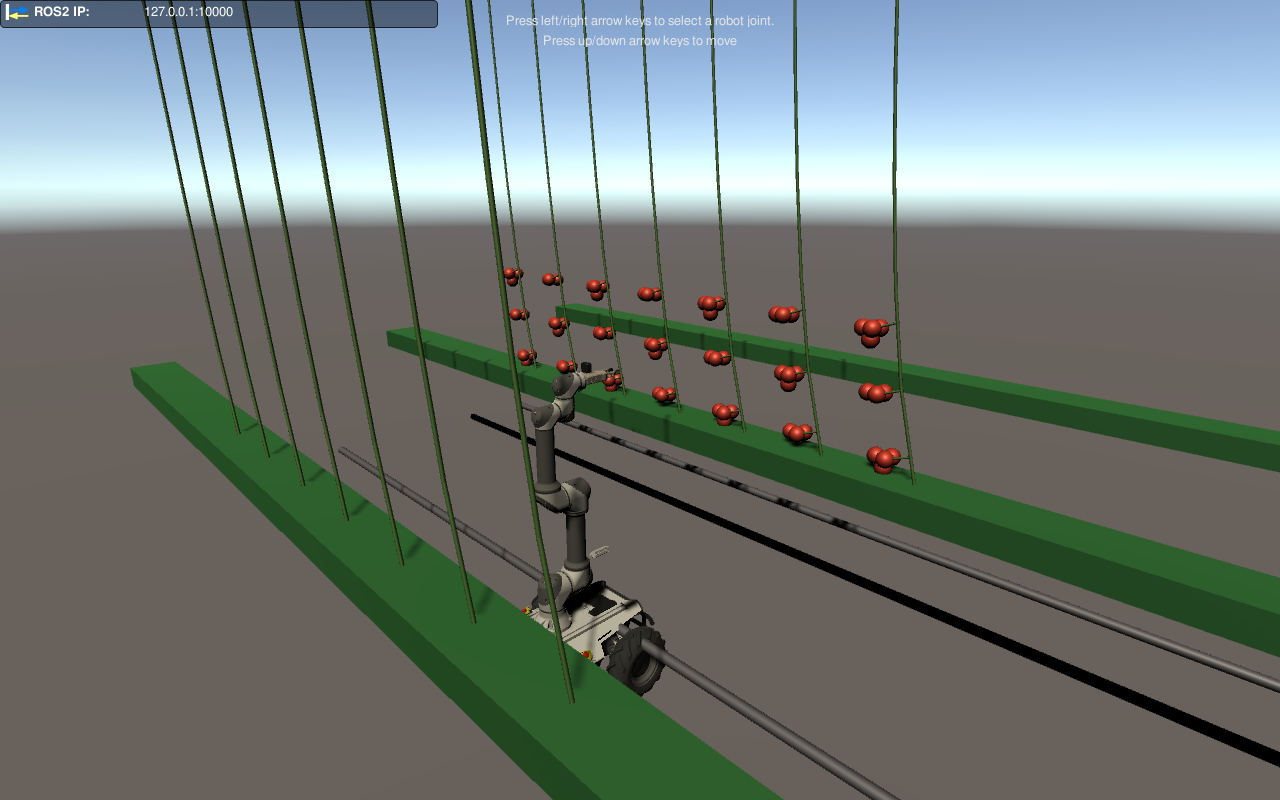
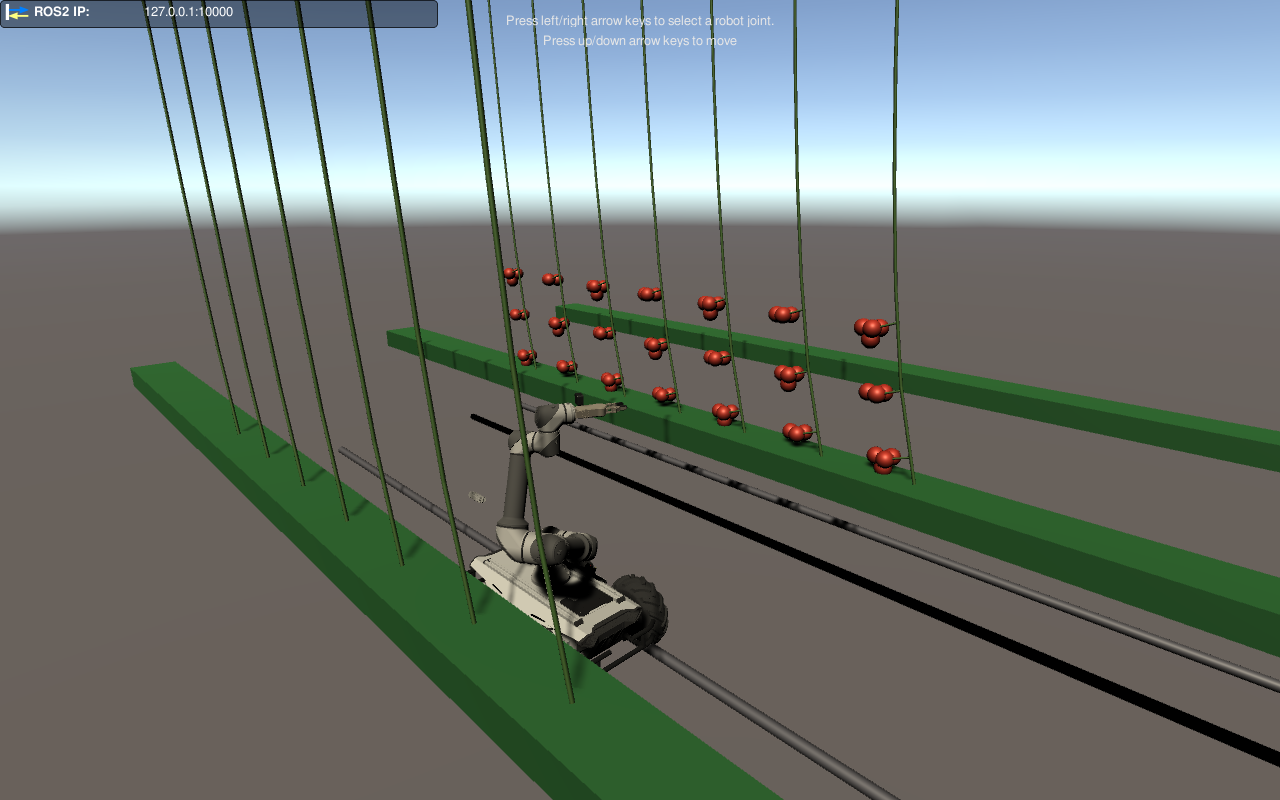
fix(7주차): 로봇 월드 배치(base_placement) 누락 — Unity·USD 둘 다 90° 돌아가 있었다
사용자 지적: "아직 로봇이 z축 기준 시계방향 90도 회전되야 해". 맞는 지적이었다.

■ 결함
  mounts.yaml 의 base_placement = {x:0, y:0, z:0, yaw_deg:-90} 을 ROS 는
  world→base_link 정적 TF 로, Gazebo 는 스폰 자세(-Y)로 적용하는데
  **생성기 3종(Gazebo 월드·USD·Unity)이 모두 이 값을 쓰지 않았다.**
  ⇒ Unity·USD 의 로봇이 온실 대비 90° 돌아가고 0.235m 낮게(지면 오프셋 누락) 서 있었다.
  ground = base_footprint 조인트 z 의 부호 반전 = 0.23479 (CLAUDE.md 기록값과 일치).

■ 수정
  · gen_unity_assets — Resources/base_placement.json 산출 + RdaBatch.PlaceRobot 신설
    실측: ROS(x=0, y=0, z=0.23479, yaw=-90°) → Unity pos (0, 0.23, 0) rot (0, 90, 0)
  · gen_usd_scene — base_placement() 신설, 합성 스테이지에서 로봇 prim 에 translate+rotateZ

🔴 왜 검증이 못 잡았나 — 지난번과 **같은 유형이 반복됐다.**
  프레임 검사(tcp = URDF FK)는 **로봇 내부 기준**이라 이 결함을 원리적으로 못 잡는다.
  로봇만 보면 맞고, 온실과의 **상대 배치**가 틀린 것이다.
  ⇒ 두 검사 모두 기준을 '월드 배치를 반영한 FK' 로 바꿨다:
     · test_unity_export  — _base_placement_tf() 신설, 프레임 비교에 적용
     · test_usd_export    — 합성 스테이지 tcp 비교에 적용
  검증: Unity 20/20 · USD 23/23 (둘 다 수정 전에는 해당 항목이 실패했다 — 확인함)

■ 교훈(보고서 후보) — 두 번 연속 같은 구조였다
  "부분이 맞다"를 "전체가 맞다"로 읽으면 안 된다.
  · 지난번: greenhouse.json 은 맞고 그걸 세우는 C# 이 틀렸다(원기둥 90°)
  · 이번:  로봇 내부 FK 는 맞고 로봇의 월드 배치가 틀렸다(로봇 90°)
  둘 다 자동 검증을 통과했고, 둘 다 **사람이 화면을 보고** 발견했다.

Changed region(s): [[0.3438, 0.4375, 0.5312, 0.875]]

diff --git a/rda_robot_bringup/scripts/gen_unity_assets.py b/rda_robot_bringup/scripts/gen_unity_assets.py
@@ -26,6 +26,7 @@ import os
 import re
 import shutil
 import sys
+import xml.etree.ElementTree as ET
 
 import numpy as np
 import yaml
@@ -42,6 +43,20 @@ def _import_sibling(mod_name, file_name):
 
 
 G = _import_sibling("_gen_usd_scene", "gen_usd_scene.py")   # URDF 조립·파싱·mesh 해석 재사용
+
+def _default_mounts():
+    """mounts.yaml 경로 — compose_urdf 와 같은 규칙(소스 트리 우선, 없으면 share)."""
+    src = os.path.abspath(os.path.join(_here, "..", ".."))
+    p = os.path.join(src, "rda_robot_description", "config", "mounts.yaml")
+    if os.path.exists(p):
+        return p
+    try:
+        from ament_index_python.packages import get_package_share_directory
+        return os.path.join(get_package_share_directory("rda_robot_description"),
+                            "config", "mounts.yaml")
+    except Exception:                                          # noqa: BLE001
+        return None
+
 
 UNITY_VERSION = "2022.3.62f3"
 URDF_IMPORTER = ("https://github.com/Unity-Technologies/URDF-Importer.git"
@@ -366,6 +381,7 @@ public static class RdaBatch
         try {
             EditorSceneManager.NewScene(NewSceneSetup.EmptyScene, NewSceneMode.Single);
             var robot = ImportRobot();
+            PlaceRobot(robot);                       // 월드 배치(base_placement) — 검사도 이 기준이다
             var green = GreenhouseBuilder.Build();
             WriteReport(robot, green);
             Debug.Log("[RDA] 완료");
@@ -468,6 +484,37 @@ public static class RdaBatch
         return null;
     }
 
+    // ───────────────────────────── 로봇 월드 배치(2026-08-16 신설)
+
+    /// 🔴 로봇을 **월드에** 놓는다 — 종전에는 URDF 원점에 그냥 뒀다.
+    ///    ROS 쪽은 `world→base_link` 정적 TF 로 (x, y, ground+z, yaw) 를 걸고 Gazebo 는 같은 값을
+    ///    스폰 자세(`-Y`)로 준다. 이걸 빠뜨려 Unity 로봇이 온실 대비 **90° 돌아가고 0.235m 낮게**
+    ///    서 있었다(2026-08-16 사용자 지적: "z축 기준 시계방향 90도 회전돼야 해").
+    ///    ⚠ 프레임 검사(tcp = URDF FK)는 **로봇 내부 기준**이라 이 결함을 못 잡는다 —
+    ///       로봇만 보면 맞고, 온실과의 상대 배치가 틀린 것이다.
+    static void PlaceRobot(GameObject robot)
+    {
+        var ta = Resources.Load<TextAsset>("base_placement");
+        if (ta == null) { Debug.LogWarning("[RDA] base_placement.json 없음 — 원점에 둔다"); return; }
+        float x = 0f, y = 0f, z = 0f, yawDeg = 0f, ground = 0f;
+        foreach (var pair in ta.text.Split(','))
+        {
+            var kv = pair.Split(':');
+            if (kv.Length != 2) continue;
+            var k = kv[0].Trim().Trim('{', '}', '"', ' ', '\n', '\r', '\t');
+            if (!float.TryParse(kv[1].Trim().Trim('{', '}', '"', ' ', '\n', '\r', '\t'), out var v)) continue;
+            if (k == "x") x = v; else if (k == "y") y = v; else if (k == "z") z = v;
+            else if (k == "yaw_deg") yawDeg = v; else if (k == "ground") ground = v;
+        }
+        // ROS world 자세 → Unity. 변환은 온실과 **같은 함수**를 쓴다(경로가 갈리면 또 어긋난다).
+        robot.transform.position = GreenhouseBuilder.RosToUnity(x, y, ground + z);
+        float h = yawDeg * Mathf.Deg2Rad * 0.5f;
+        var qRos = new Quaternion(0f, 0f, Mathf.Sin(h), Mathf.Cos(h));   // ROS Z축 yaw
+        robot.transform.rotation = GreenhouseBuilder.RosToUnity(qRos);
+        Debug.Log($"[RDA] 로봇 배치: ROS(x={x}, y={y}, z={ground + z}, yaw={yawDeg}°) "
+                  + $"→ Unity pos {robot.transform.position} rot {robot.transform.eulerAngles}");
+    }
+
     // ───────────────────────────── ROS 연동(2026-08-16 신설)
     const string ScenePath = "Assets/Scenes/RdaScene.unity";
 
@@ -500,6 +547,7 @@ public static class RdaBatch
         try {
             EditorSceneManager.NewScene(NewSceneSetup.DefaultGameObjects, NewSceneMode.Single);
             var robot = ImportRobot();
+            PlaceRobot(robot);
             GreenhouseBuilder.Build();
 
             // 보여 주기용 시점 — 기본 카메라는 원점을 보고 있어 로봇·온실이 화면에 안 들어온다.
@@ -555,7 +603,7 @@ public static class RdaBatch
 '''
 
 
-def build(out_dir, urdf_path, obstacles, mesh_search):
+def build(out_dir, urdf_path, obstacles, mesh_search, mounts_path=None):
     assets = os.path.join(out_dir, "Assets", "RdaRobot")
     editor = os.path.join(out_dir, "Assets", "Editor")
     os.makedirs(assets, exist_ok=True)
@@ -623,6 +671,31 @@ def build(out_dir, urdf_path, obstacles, mesh_search):
         if j["type"] != "fixed":
             jmap[jn] = j["child"]
     json.dump(jmap, open(os.path.join(res, "joint_map.json"), "w"), indent=1)
+
+    # 🔴 로봇의 **월드 배치**(base_placement) — Gazebo·데모는 적용하는데 생성기들이 빠뜨렸다.
+    #    ROS 쪽은 `world→base_link` 정적 TF 로 (x, y, ground+z, yaw) 를 걸고 Gazebo 는 같은 값을
+    #    `-Y` 스폰 자세로 준다. Unity 는 로봇을 URDF 원점에 그냥 놓아서 **온실 대비 90° 돌아가고
+    #    0.235m 낮게** 서 있었다(2026-08-16 사용자 지적으로 발견).
+    #    ground = base_footprint 조인트 z 의 부호 반전(= 바닥을 z=0 으로 맞추는 오프셋).
+    bp = {"x": 0.0, "y": 0.0, "z": 0.0, "yaw_deg": 0.0}
+    try:
+        md = yaml.safe_load(open(mounts_path)) or {} if mounts_path else {}
+        for k in bp:
+            if k in (md.get("base_placement") or {}):
+                bp[k] = float(md["base_placement"][k])
+    except Exception as e:                                    # noqa: BLE001
+        sys.stderr.write(f"[gen_unity_assets] base_placement 읽기 실패: {e}\n")
+    ground = 0.0
+    try:
+        for j in ET.fromstring(urdf).findall("joint"):
+            ch = j.find("child")
+            if ch is not None and ch.get("link") == "base_footprint":
+                ground = -float(j.find("origin").get("xyz").split()[2])
+                break
+    except Exception as e:                                    # noqa: BLE001
+        sys.stderr.write(f"[gen_unity_assets] ground offset 계산 실패: {e}\n")
+    bp["ground"] = ground
+    json.dump(bp, open(os.path.join(res, "base_placement.json"), "w"), indent=1)
     json.dump({"dependencies": {
         "com.unity.robotics.urdf-importer": URDF_IMPORTER,
         "com.unity.robotics.ros-tcp-connector": ROS_TCP_CONNECTOR,
@@ -691,6 +764,7 @@ def main():
     ap.add_argument("--urdf", default=None, help="생략하면 mounts.yaml 로 즉석 조립")
     ap.add_argument("--obstacles", default=None)
     ap.add_argument("--mesh-path", action="append", default=[])
+    ap.add_argument("--mounts", default=None, help="base_placement 를 읽을 mounts.yaml")
     a = ap.parse_args()
 
     out_dir = os.path.abspath(os.path.expanduser(a.out))
@@ -711,7 +785,7 @@ def main():
         obstacles = os.path.join(get_package_share_directory("rda_robot_description"),
                                  "config", "obstacles.yaml")
 
-    st = build(out_dir, urdf, obstacles, a.mesh_path)
+    st = build(out_dir, urdf, obstacles, a.mesh_path, mounts_path=a.mounts or _default_mounts())
     open(os.path.join(out_dir, "README.md"), "w").write(
         README.format(ver=UNITY_VERSION, n=st["items"]))
     sys.stderr.write(f"[gen_unity_assets] mesh {st['meshes']}개 복사 · 온실 {st['items']}개 · "

diff --git a/rda_robot_bringup/scripts/gen_usd_scene.py b/rda_robot_bringup/scripts/gen_usd_scene.py
@@ -543,7 +543,41 @@ def build_greenhouse(out_file, obstacles_yaml, include_targets=True):
     return n
 
 
-def build_scene(out_file, robot_file, world_file, robot_name="rda_robot"):
+def base_placement(urdf_path, mounts_path=None):
+    """로봇의 월드 배치 (x, y, ground+z, yaw_rad) — ROS/Gazebo 와 **같은 규칙**.
+
+    🔴 2026-08-16 발견: 세 생성기(Gazebo 월드·USD·Unity)가 모두 이 값을 빠뜨려, 로봇이 온실 대비
+       **90° 돌아가고 0.235m 낮게** 서 있었다(사용자가 Unity 화면에서 지적).
+       ROS 쪽은 `world→base_link` 정적 TF 로, Gazebo 는 스폰 자세(`-Y`)로 이 값을 건다.
+       ground = base_footprint 조인트 z 의 부호 반전(바닥을 z=0 으로 맞추는 오프셋).
+    """
+    import math
+    bp = {"x": 0.0, "y": 0.0, "z": 0.0, "yaw_deg": 0.0}
+    if mounts_path is None:
+        src = os.path.abspath(os.path.join(_here, "..", ".."))
+        mounts_path = os.path.join(src, "rda_robot_description", "config", "mounts.yaml")
+    try:
+        import yaml as _yaml
+        d = _yaml.safe_load(open(mounts_path)) or {}
+        for k in bp:
+            if k in (d.get("base_placement") or {}):
+                bp[k] = float(d["base_placement"][k])
+    except Exception as e:                                     # noqa: BLE001
+        sys.stderr.write(f"[gen_usd_scene] base_placement 읽기 실패: {e}\n")
+    ground = 0.0
+    try:
+        import xml.etree.ElementTree as _ET
+        for j in _ET.parse(urdf_path).getroot().findall("joint"):
+            ch = j.find("child")
+            if ch is not None and ch.get("link") == "base_footprint":
+                ground = -float(j.find("origin").get("xyz").split()[2])
+                break
+    except Exception as e:                                     # noqa: BLE001
+        sys.stderr.write(f"[gen_usd_scene] ground offset 계산 실패: {e}\n")
+    return bp["x"], bp["y"], ground + bp["z"], math.radians(bp["yaw_deg"])
+
+
+def build_scene(out_file, robot_file, world_file, robot_name="rda_robot", placement=None):
     stage = Usd.Stage.CreateNew(out_file)
     UsdGeom.SetStageUpAxis(stage, UsdGeom.Tokens.z)
     UsdGeom.SetStageMetersPerUnit(stage, 1.0)
@@ -557,6 +591,11 @@ def build_scene(out_file, robot_file, world_file, robot_name="rda_robot"):
     for name, f in (("greenhouse", world_file), (_sane(robot_name), robot_file)):
         p = UsdGeom.Xform.Define(stage, f"/World/{name}")
         p.GetPrim().GetReferences().AddReference("./" + os.path.basename(f))
+        # 로봇에는 월드 배치를 건다(온실은 이미 월드 좌표로 만들어져 있다).
+        if name == _sane(robot_name) and placement is not None:
+            px, py, pz, yaw = placement
+            p.AddTranslateOp().Set(Gf.Vec3d(float(px), float(py), float(pz)))
+            p.AddRotateZOp().Set(float(math.degrees(yaw)))
 
     UsdLux.DomeLight.Define(stage, "/World/dome").CreateIntensityAttr(1000.0)
     stage.GetRootLayer().Save()
@@ -694,7 +733,7 @@ def main():
 
     stats = build_robot(robot_f, urdf, a.mesh_path, fix_base=not a.no_fix_base)
     nprims = build_greenhouse(world_f, obstacles, include_targets=not a.no_targets)
-    build_scene(scene_f, robot_f, world_f)
+    build_scene(scene_f, robot_f, world_f, placement=base_placement(urdf))
     write_readme(out_dir, stats, nprims, a)
     isaac_py = os.path.join(out_dir, "isaac_load_scene.py")
     open(isaac_py, "w").write(ISAAC_SCRIPT)

diff --git a/docs/scripts/test_unity_export.py b/docs/scripts/test_unity_export.py
@@ -47,6 +47,35 @@ def ros_to_unity_pos(v):
     return np.array([-v[1], v[2], v[0]])
 
 
+def _base_placement_tf(project, urdf_path):
+    """world→base_link 4×4 — mounts.yaml base_placement(x, y, z, yaw_deg) + 지면 오프셋.
+
+    지면 오프셋 = base_footprint 조인트 z 의 부호 반전(바닥을 z=0 으로 맞추는 값).
+    launch(`perception_demo._ground_offset`)와 **같은 규칙**이어야 한다.
+    """
+    import xml.etree.ElementTree as _ET
+    bp = {"x": 0.0, "y": 0.0, "z": 0.0, "yaw_deg": 0.0, "ground": 0.0}
+    p = os.path.join(project, "Assets", "Resources", "base_placement.json")
+    if os.path.exists(p):
+        bp.update(json.load(open(p)))
+    else:                                   # 생성물이 없으면 URDF 에서 지면만이라도 구한다
+        try:
+            for j in _ET.parse(urdf_path).getroot().findall("joint"):
+                ch = j.find("child")
+                if ch is not None and ch.get("link") == "base_footprint":
+                    bp["ground"] = -float(j.find("origin").get("xyz").split()[2])
+                    break
+        except Exception:                                      # noqa: BLE001
+            pass
+    th = np.radians(float(bp["yaw_deg"]))
+    T = np.eye(4)
+    T[:3, :3] = np.array([[np.cos(th), -np.sin(th), 0.0],
+                          [np.sin(th),  np.cos(th), 0.0],
+                          [0.0,         0.0,        1.0]])
+    T[:3, 3] = [float(bp["x"]), float(bp["y"]), float(bp["ground"]) + float(bp["z"])]
+    return T
+
+
 def _rpy_matrix(r, p, y):
     """URDF rpy(고정축 XYZ, = Rz·Ry·Rx) → 3×3 회전행렬."""
     cr, sr = np.cos(r), np.sin(r)
@@ -179,11 +208,16 @@ def main():
               r.get("revolute") == len(movable), f"{r.get('revolute')} vs {len(movable)}")
         check("Unity 온실 오브젝트 수", r.get("greenhouse") == len(items),
               f"{r.get('greenhouse')} vs {len(items)}")
+        # 🔴 로봇의 **월드 배치**(mounts.yaml base_placement)를 반영해서 비교해야 한다.
+        #    ROS 쪽은 world→base_link 정적 TF 로 (x, y, ground+z, yaw) 를 걸고 Gazebo 도 같은 값을
+        #    스폰 자세로 준다. 이걸 빼고 비교하면 **로봇만 보면 맞고 온실과의 상대 배치가 틀린**
+        #    상태가 통과한다(2026-08-16 사용자가 화면에서 발견한 결함이 정확히 그것이었다).
+        T_wb = _base_placement_tf(P, urdf_path)
         fbad = []
         for name, pos in (r.get("frames") or {}).items():
             if name not in W:
                 continue
-            want = ros_to_unity_pos(W[name][:3, 3])
+            want = ros_to_unity_pos((T_wb @ np.append(W[name][:3, 3], 1.0))[:3])
             if np.abs(np.array(pos) - want).max() > 1e-3:
                 fbad.append(f"{name}: {np.round(pos,4).tolist()} vs {np.round(want,4).tolist()}")
         check("Unity 프레임 위치 = URDF FK(좌표 변환 적용)", not fbad, "; ".join(fbad))

diff --git a/docs/scripts/test_usd_export.py b/docs/scripts/test_usd_export.py
@@ -246,8 +246,17 @@ def main():
           and abs(g.GetGravityMagnitudeAttr().Get() - 9.81) < 1e-6
           and list(g.GetGravityDirectionAttr().Get()) == [0.0, 0.0, -1.0])
     if tcp:                                   # 합성 스테이지에서도 tcp 위치가 URDF 와 같은가
-        e = float(np.abs(world_tf(tcp[0]) - W["tcp"]).max())
-        check("합성 스테이지 tcp 위치 = URDF FK", e < 1e-5,
+        # 🔴 합성 스테이지에는 로봇의 **월드 배치**(mounts.yaml base_placement + 지면 오프셋)가
+        #    걸려 있다. 그걸 빼고 비교하면 '로봇만 보면 맞고 온실과의 상대 배치는 틀린' 상태가
+        #    통과한다(2026-08-16 Unity 에서 실제로 그랬다 — 사용자가 화면에서 발견).
+        px, py, pz, yaw = G.base_placement(urdf)
+        T_wb = np.eye(4)
+        T_wb[:3, :3] = np.array([[np.cos(yaw), -np.sin(yaw), 0.0],
+                                 [np.sin(yaw),  np.cos(yaw), 0.0],
+                                 [0.0,          0.0,         1.0]])
+        T_wb[:3, 3] = [px, py, pz]
+        e = float(np.abs(world_tf(tcp[0]) - T_wb @ W["tcp"]).max())
+        check("합성 스테이지 tcp 위치 = URDF FK(월드 배치 반영)", e < 1e-5,
               f"{np.round(world_tf(tcp[0])[:3, 3], 4).tolist()} (오차 {e:.2e})")
 
     # 8. USD 무결성 — pip `usd-core` 에는 usdchecker/ComplianceChecker 가 없어 직접 훑는다
